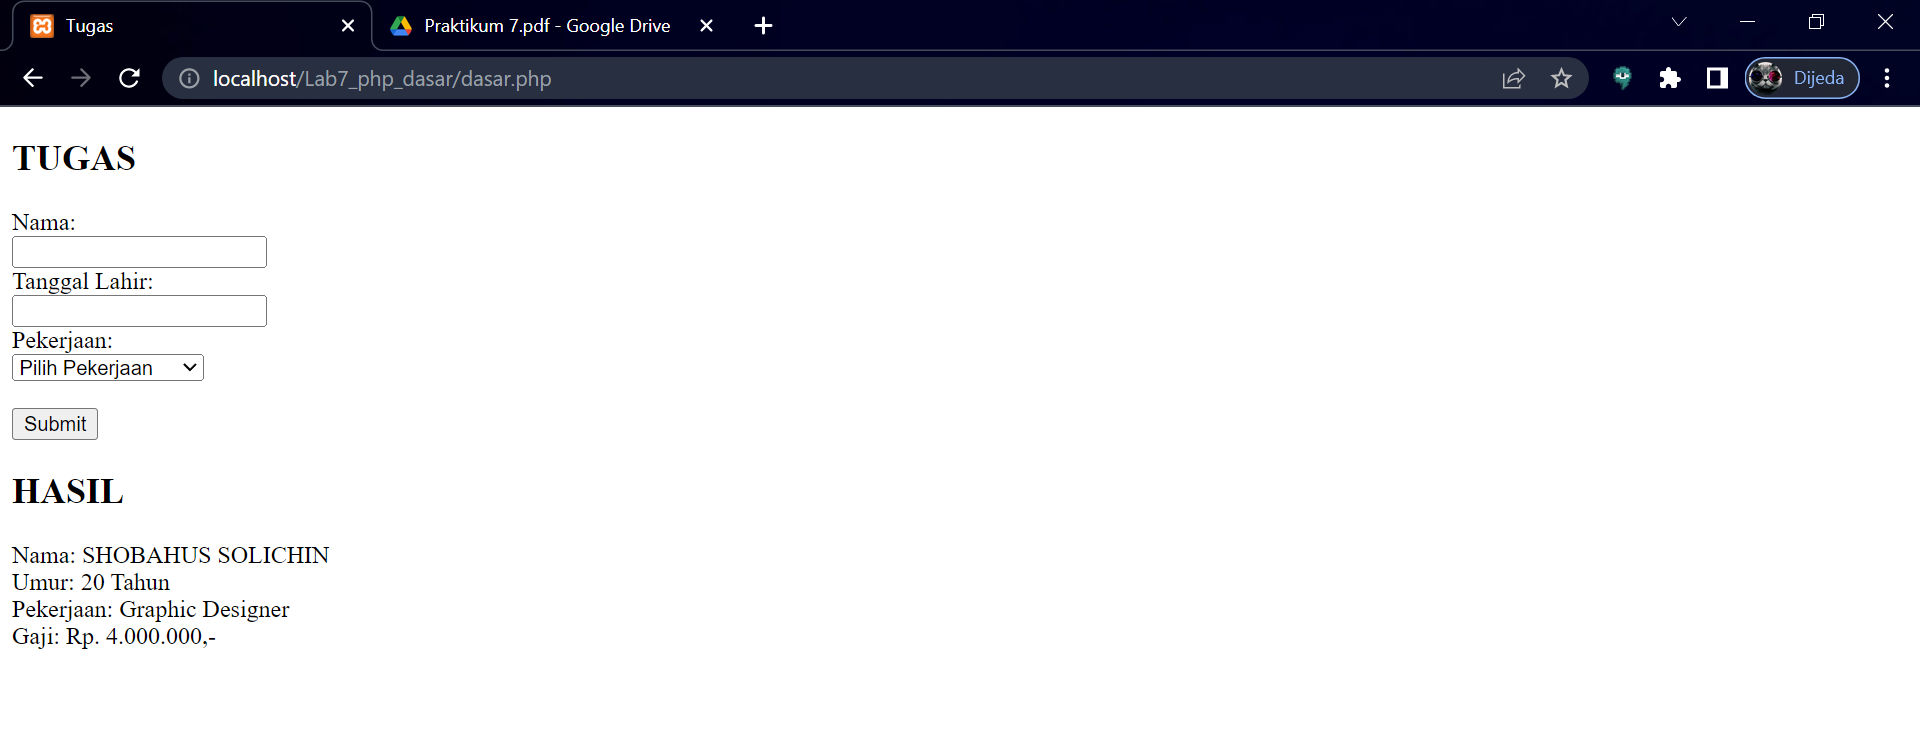
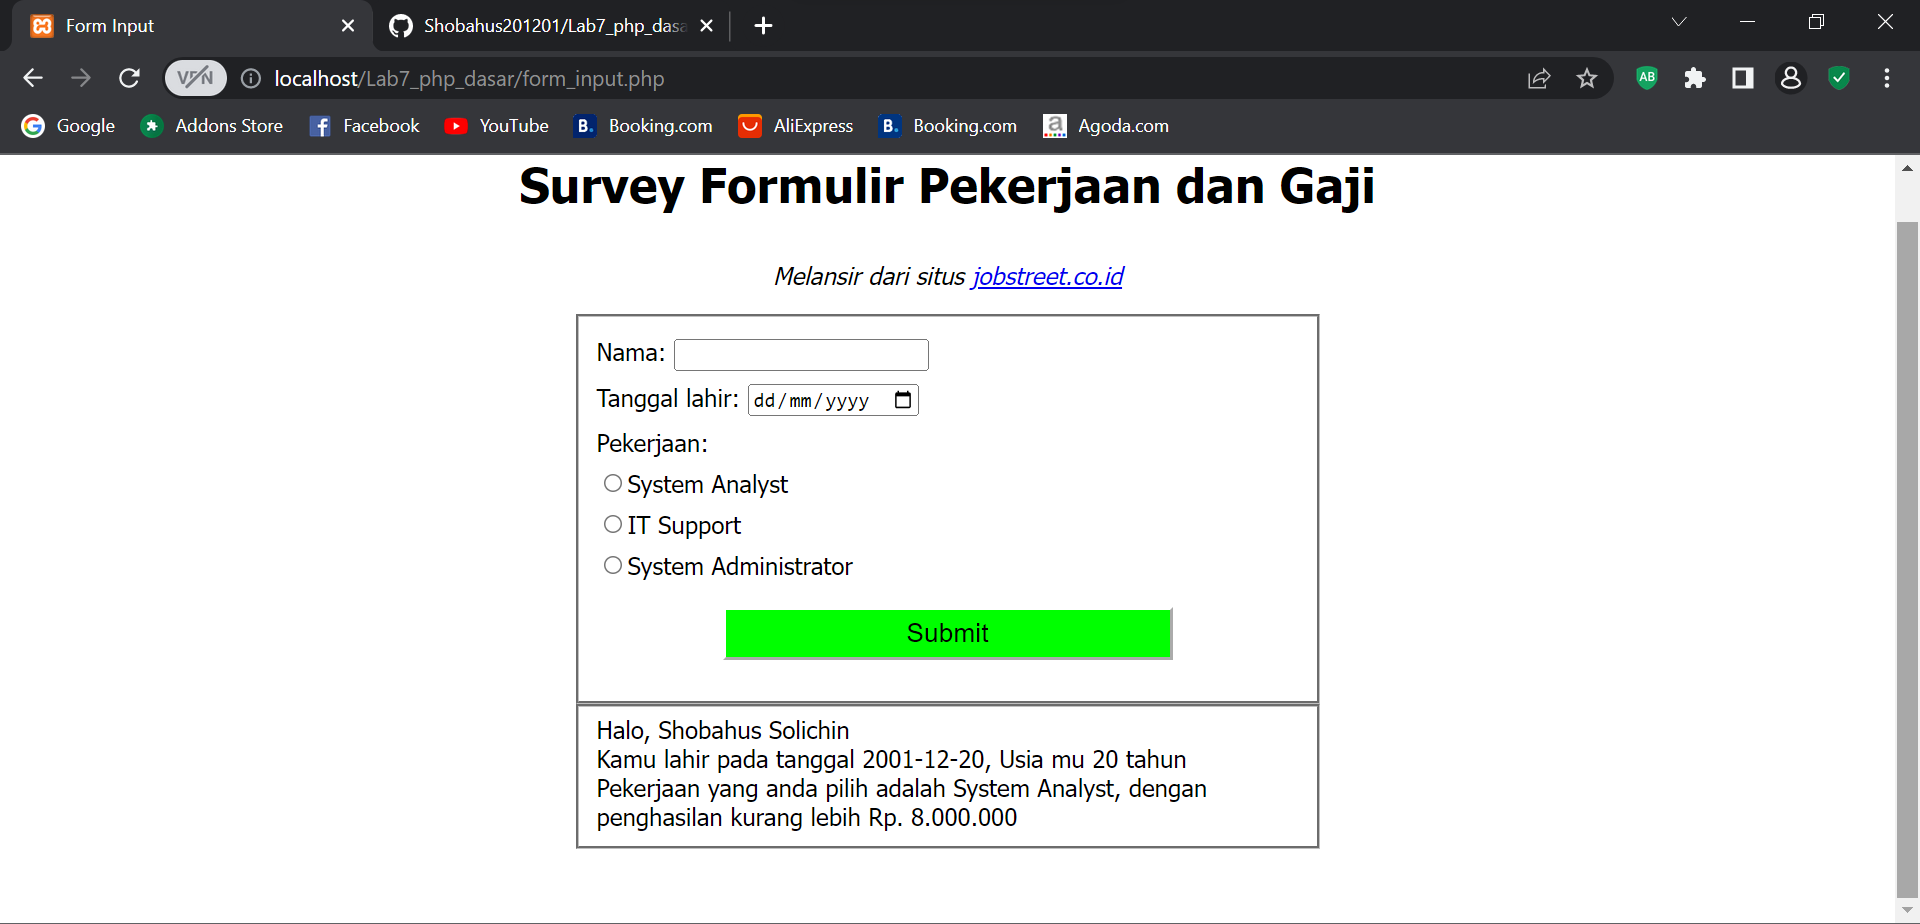
Menambahkan Foto

diff --git a/form_input.php b/form_input.php
@@ -35,7 +35,7 @@
             margin: 1em auto;
             height: 2em;
             font-size: 1.1rem;
-            background-color: #e0daca;
+            background-color: #00FF00;
             border-color: white;
             min-width: 300px;
         }
@@ -44,7 +44,7 @@
 
     <body>
         <h1 id="title">Survey Formulir Pekerjaan dan Gaji</h1>
-        <p id="description"><i>Melansir dari situs <a href="https://id.indeed.com/career/php-developer/salaries"> indeed.com</a></i></p>
+        <p id="description"><i>Melansir dari situs <a href="https://www.jobstreet.co.id/id/job-search/it-jobs/"> jobstreet.co.id</a></i></p>
 
         <form id="survey-form" action="" method="POST">
             <fieldset>
@@ -56,16 +56,16 @@
                 </label>
                 <label>Pekerjaan: 
                     <label>
-                    <input type="radio" name="job" value="0"/>PHP Developer
+                    <input type="radio" name="job" value="0"/>System Analyst
                     </label>
                     <label>
                     <input type="radio" name="job" value="1"/>IT Support
                     </label>
                     <label>
-                    <input type="radio" name="job" value="2"/>Network Engineer
+                    <input type="radio" name="job" value="2"/>System Administrator
                     </label>
                 </label>
-                <button type="submit" name="submit">Kirim</button>
+                <button type="submit" name="submit">Submit</button>
             </fieldset>
             <fieldset>
                 <?php
@@ -80,12 +80,12 @@
                     $today =  new DateTime('today');
                     $usia = $today->diff($date_user)->y;
 
-                    $job_array = ["PHP Developer","IT Support","Network Engineer"];
-                    $salary_array = ["Rp. 7.000.000","Rp. 4.500.000","Rp. 5.000.000"];
+                    $job_array = ["System Analyst","IT Support","System Administrator"];
+                    $salary_array = ["Rp. 8.000.000","Rp. 6.400.000","Rp. 4.200.000"];
 
 
                     echo "Halo, ".$nama."<br>Kamu lahir pada tanggal ".$date.", Usia mu ".$usia." tahun";
-                    echo "<br>Pekerjaan yang kamu pilih adalah ".$job_array[(int)$job].", dengan penghasilan kurang lebih ".$salary_array[(int)$job];
+                    echo "<br>Pekerjaan yang anda pilih adalah ".$job_array[(int)$job].", dengan penghasilan kurang lebih ".$salary_array[(int)$job];
                 }
                 ?>
             </fieldset>

diff --git a/Dasar.php b/Dasar.php
@@ -9,42 +9,5 @@
 <?php
 echo "Hello World";
 ?>
-<h2>Menggunakan Variabel</h2>
-<?php
-$nim = "312010076";
-$nama = 'Shobahus Solichin';
-echo "NIM : " . $nim . "<br>";
-echo "Nama : $nama";
-?>
-<h3>Predefine Variabel</h3>
-<?php
-echo 'Selamat Datang ' . $_GET['nama'];
-?>
-<h4>Form Input</h4>
-<!DOCTYPE html>
-<html lang="en">
-<head>
-<meta charset="UTF-8">
-<title>PHP Dasar</title>
-</head>
-<body>
-<h2>Form Input</h2>
-<form method="post">
-<label>Nama: </label>
-<input type="text" name="nama">
-<input type="submit" value="Kirim">
-</form>
-<?php
-echo 'Selamat Datang ' . $_POST['nama'];
-?>
-<h5>Operator</h5>
-<?php
-$gaji = 1000000;
-$pajak = 0.1;
-$thp = $gaji - ($gaji*$pajak);
-echo "Gaji sebelum pajak = Rp. $gaji <br>";
-echo "Gaji yang dibawa pulang = Rp. $thp";
-?>
-
 </body>
 </html>
